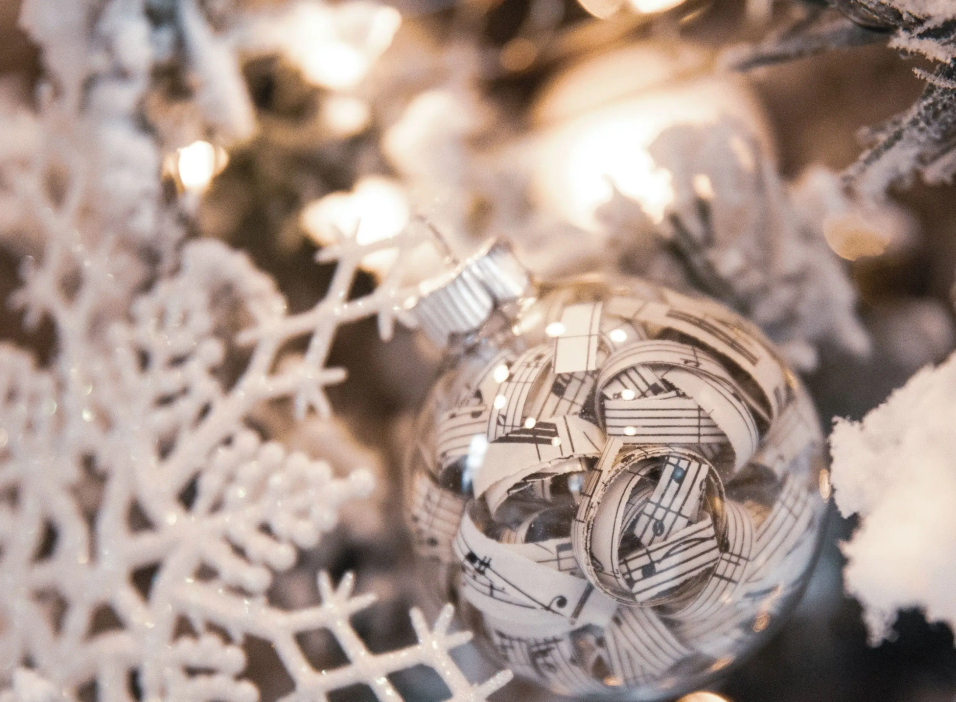
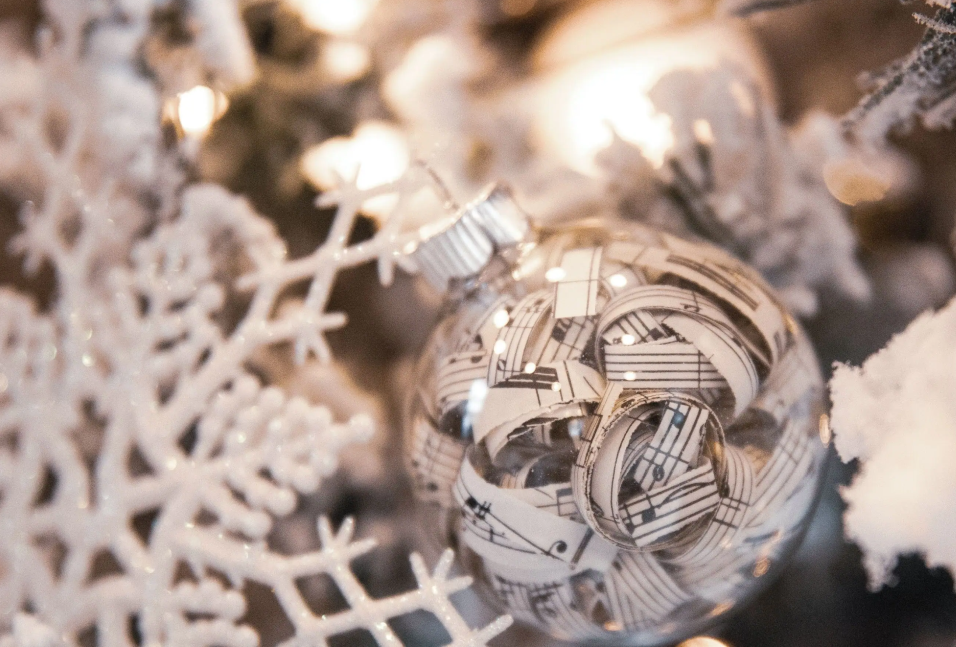
new concerts is added. hero section is updated

diff --git a/src/app/constants/hero-carousel-items.constants.ts b/src/app/constants/hero-carousel-items.constants.ts
@@ -3,9 +3,9 @@ import { CONCERTS_PATH, GALLERY_PATH } from './routing.constants';
 
 export const HERO_CAROUSEL_ITEMS: readonly HeroCarouselItem[] = [
   {
-    imageMobileSource: 'slide1-mobile',
-    imageTabletSource: 'slide1-tablet',
-    imageDesktopSource: 'slide1-desktop',
+    imageMobileSource: 'slide1-mobile-godollo',
+    imageTabletSource: 'slide1-tablet-godollo',
+    imageDesktopSource: 'slide1-desktop-godollo',
     imageAltTranslationKey: 'BVKZ.HERO__COMPONENT.HERO_1__IMAGE_ALT_TEXT',
     slideTitle: 'BVKZ.HERO__COMPONENT.HERO_1__TITLE',
     slideText: 'BVKZ.HERO__COMPONENT.HERO_1__TEXT',

diff --git a/src/app/components/countdown/countdown.component.scss b/src/app/components/countdown/countdown.component.scss
@@ -13,7 +13,7 @@
   padding: 1rem;
   position: absolute;
   right: 0;
-  bottom: 0;
+  top: 0;
 }
 
 .countdown__icon {
